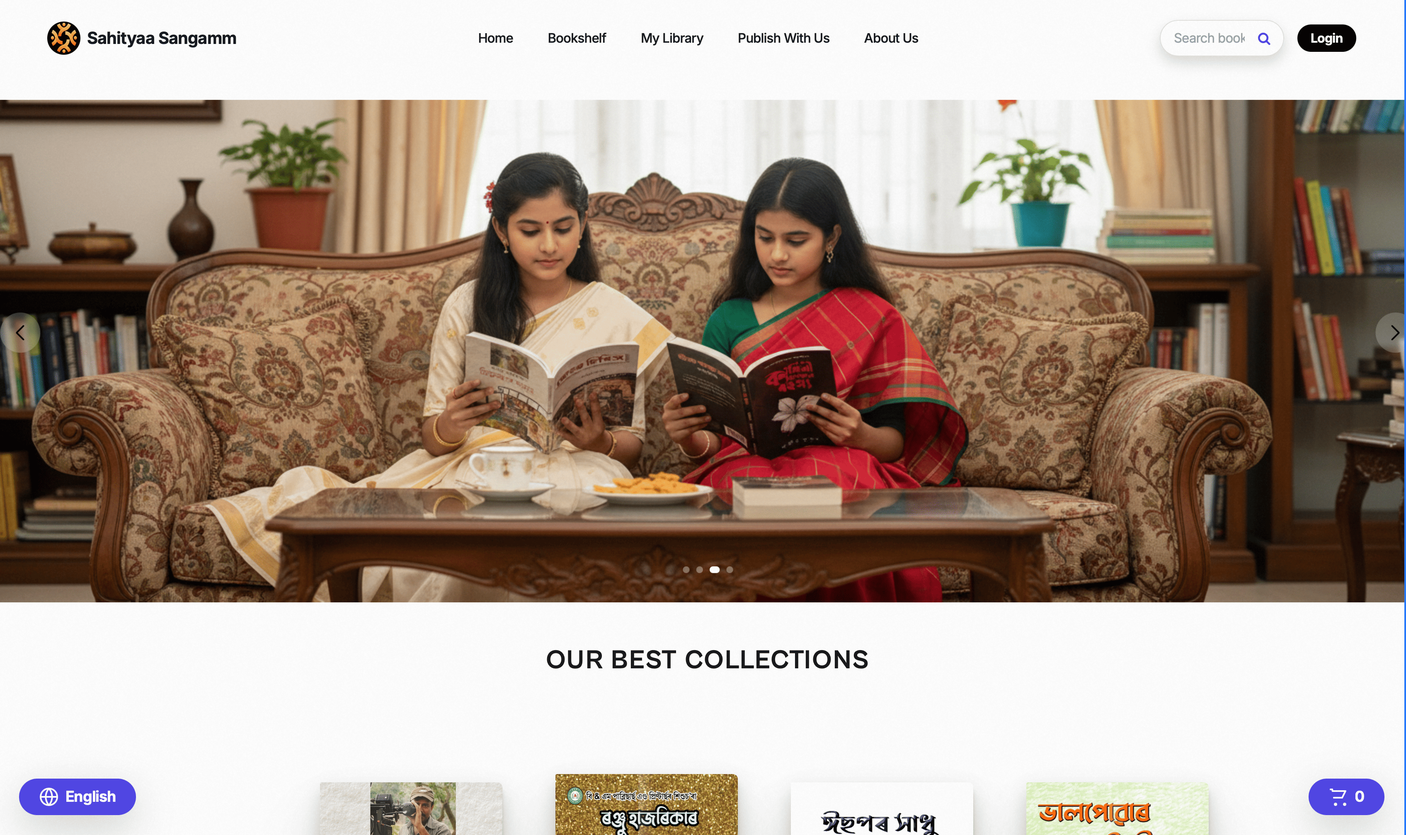
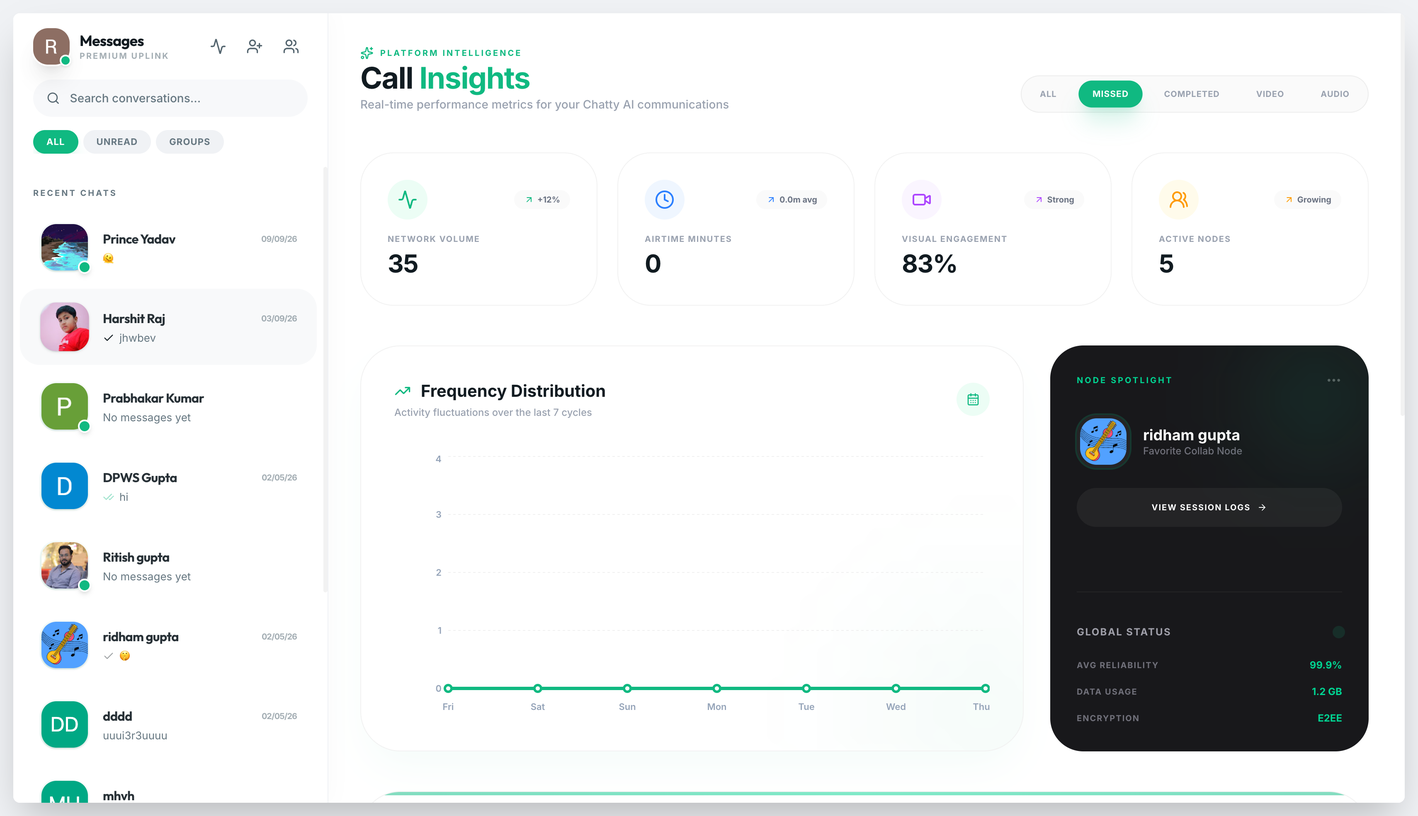
v6

diff --git a/Ashif/src/components/Projects.jsx b/Ashif/src/components/Projects.jsx
@@ -23,13 +23,12 @@ import { Truck } from 'lucide-react';
 // --- Data for the projects ---
 const projectData = [
     {
-        title: 'Sahityaa Sangamm',
+        title: 'ChatFlow',
         description: 'A modern e-commerce platform built with Blade and Laravel.',
-        // Use your Cloudinary video URL here:
         videoUrl: 'https://res.cloudinary.com/dktapziq9/video/upload/v1764394626/1764393871242766_dqfnqn.mp4',
         imageUrl: project1Img, // optional fallback
-        liveUrl: 'https://sahityaasangamm.in',
-        repoUrl: '#',
+        liveUrl: 'https://whatsapp-4-nyet.onrender.com/',
+        repoUrl: 'https://github.com/ridhamguptaprogramming-ops/WhatsApp-4.git',
         tags: ['Blade', 'Laravel', 'MySQL'],
     },
     {
